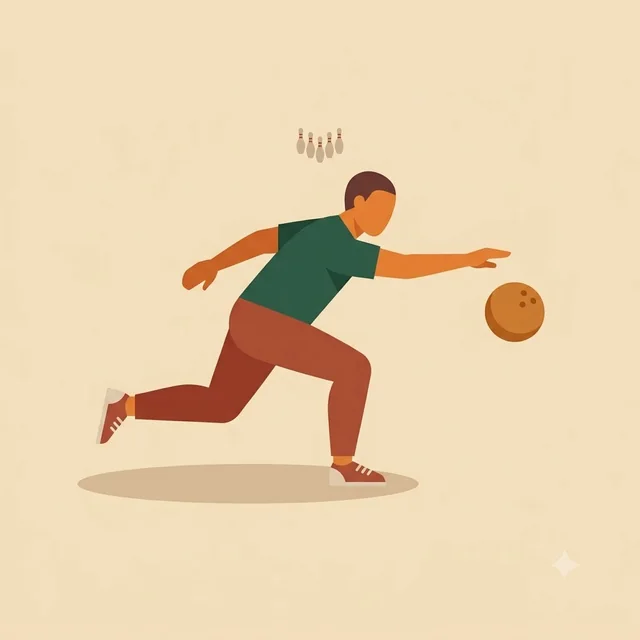
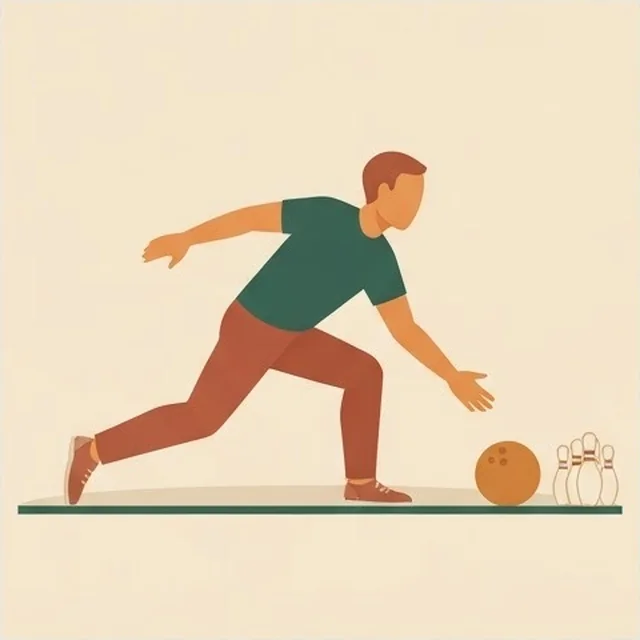
feat: 고른 종목 그림 남녀 (1/6) — 발레 · 야구 · 볼링 · 복싱 남녀
예현: "이 이미지 작업들도 남녀 이미지로 나눠서 작업해줘". 플랫 일러스트(640px WebP), SPORT_ART 를 파일에 맞춰 고친다.

diff --git a/frontend/index.html b/frontend/index.html
@@ -6321,7 +6321,7 @@ const POSE_FOR_SPORT = {
    SPORT_ART 는 종목 id → 가지고 있는 그림('mf' · 'm' · 'f'). 아직 한쪽만 그린 종목은 있는 쪽을 보여 주고,
    아예 없는 종목은 예전처럼 3D(POSE_FOR_SPORT)로 간다 — 없는 그림을 부르면 404 가 나고 빈 칸이 깜빡인다.
    (tests/test_sport_art.py 가 이 표와 파일을 맞춰 본다.) */
-const SPORT_ART = { badminton: 'm', basketball: 'm', bowling: 'm', cycling: 'm', golf: 'm', hiking: 'm', jumprope: 'm', marathon: 'm', running: 'm', soccer: 'm', squash: 'm', swimming: 'm', tabletennis: 'm', tennis: 'm' };
+const SPORT_ART = { badminton: 'm', ballet: 'mf', baseball: 'mf', basketball: 'm', bowling: 'mf', boxing: 'mf', cycling: 'm', golf: 'm', hiking: 'm', jumprope: 'm', marathon: 'm', running: 'm', soccer: 'm', squash: 'm', swimming: 'm', tabletennis: 'm', tennis: 'm' };
 function sportArtUrl(step){
   if (!step || step.출처 !== '종목' || youtubeVideoId(step.youtube_id)) return null;   // 영상이 있으면 영상
   const 있는 = SPORT_ART[step.id];

diff --git a/tests/test_sport_art.py b/tests/test_sport_art.py
@@ -25,7 +25,7 @@ def _art() -> dict:
     있는 = defaultdict(str)
     for p in sorted(ART.glob("*-[mf].webp")):
         있는[p.stem[:-2]] += p.stem[-1]
-    return {i: "".join(sorted(v)) for i, v in 있는.items()}
+    return {i: "".join(sorted(v, reverse=True)) for i, v in 있는.items()}        # 'mf' · 'm' · 'f' — 남자 먼저 (코드의 표와 같은 순서)
 
 
 def _sport_ids() -> set:
